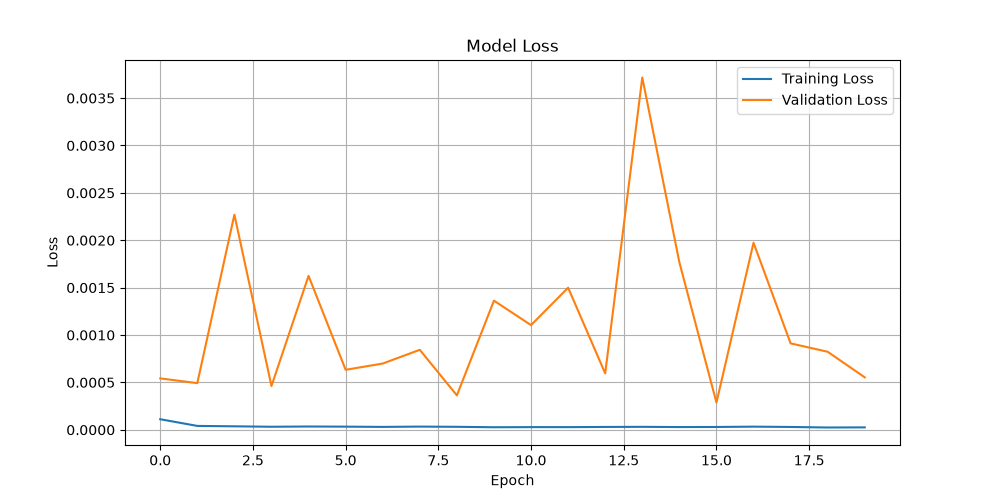
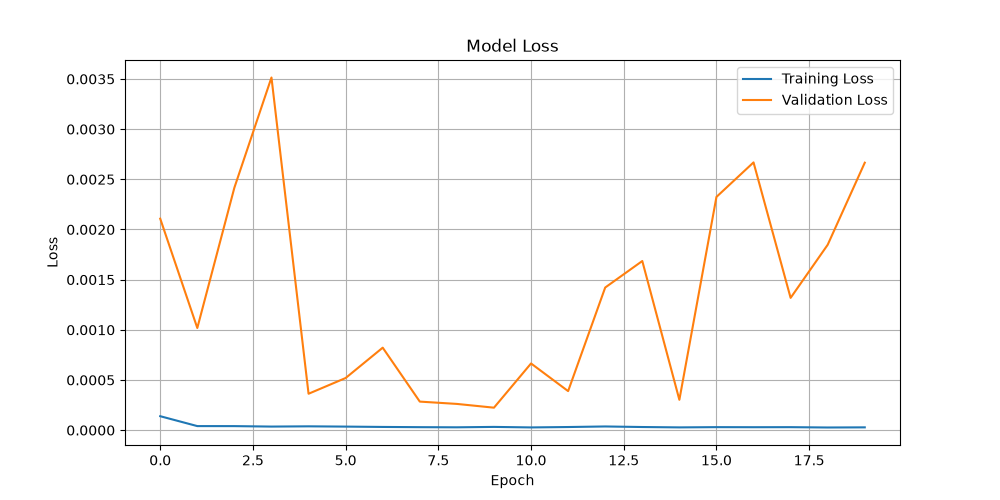
Updated Keras imports and finalized project

diff --git a/src/model.py b/src/model.py
@@ -1,5 +1,5 @@
-from tensorflow.keras.models import Sequential
-from tensorflow.keras.layers import LSTM, Dense, Dropout
+from keras.models import Sequential
+from keras.layers import Dense, LSTM, Dropout
 
 
 def build_lstm(input_shape):